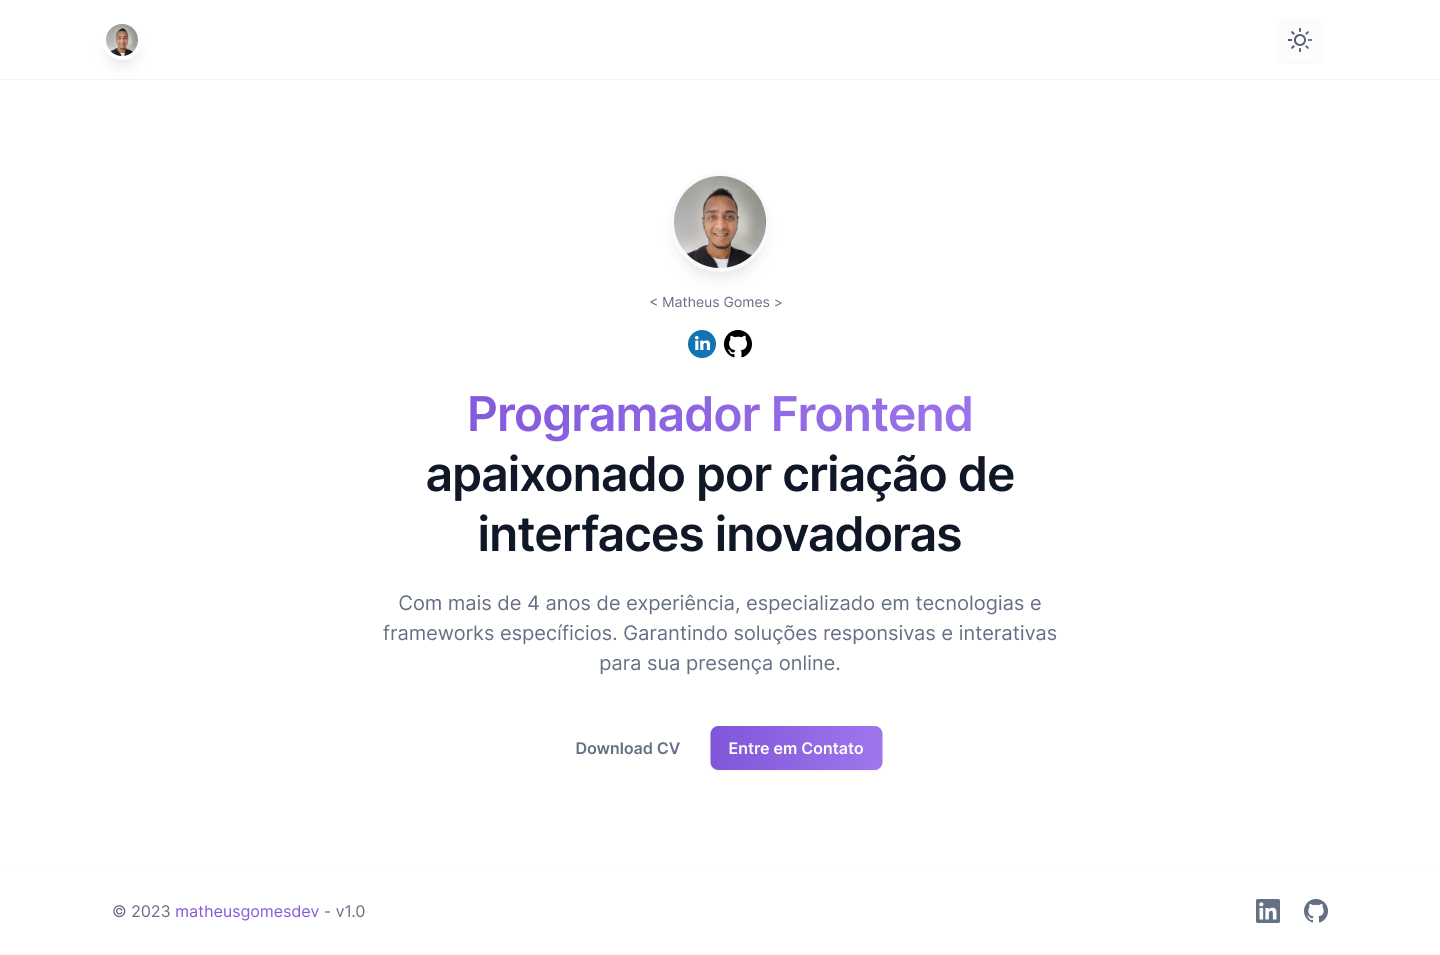
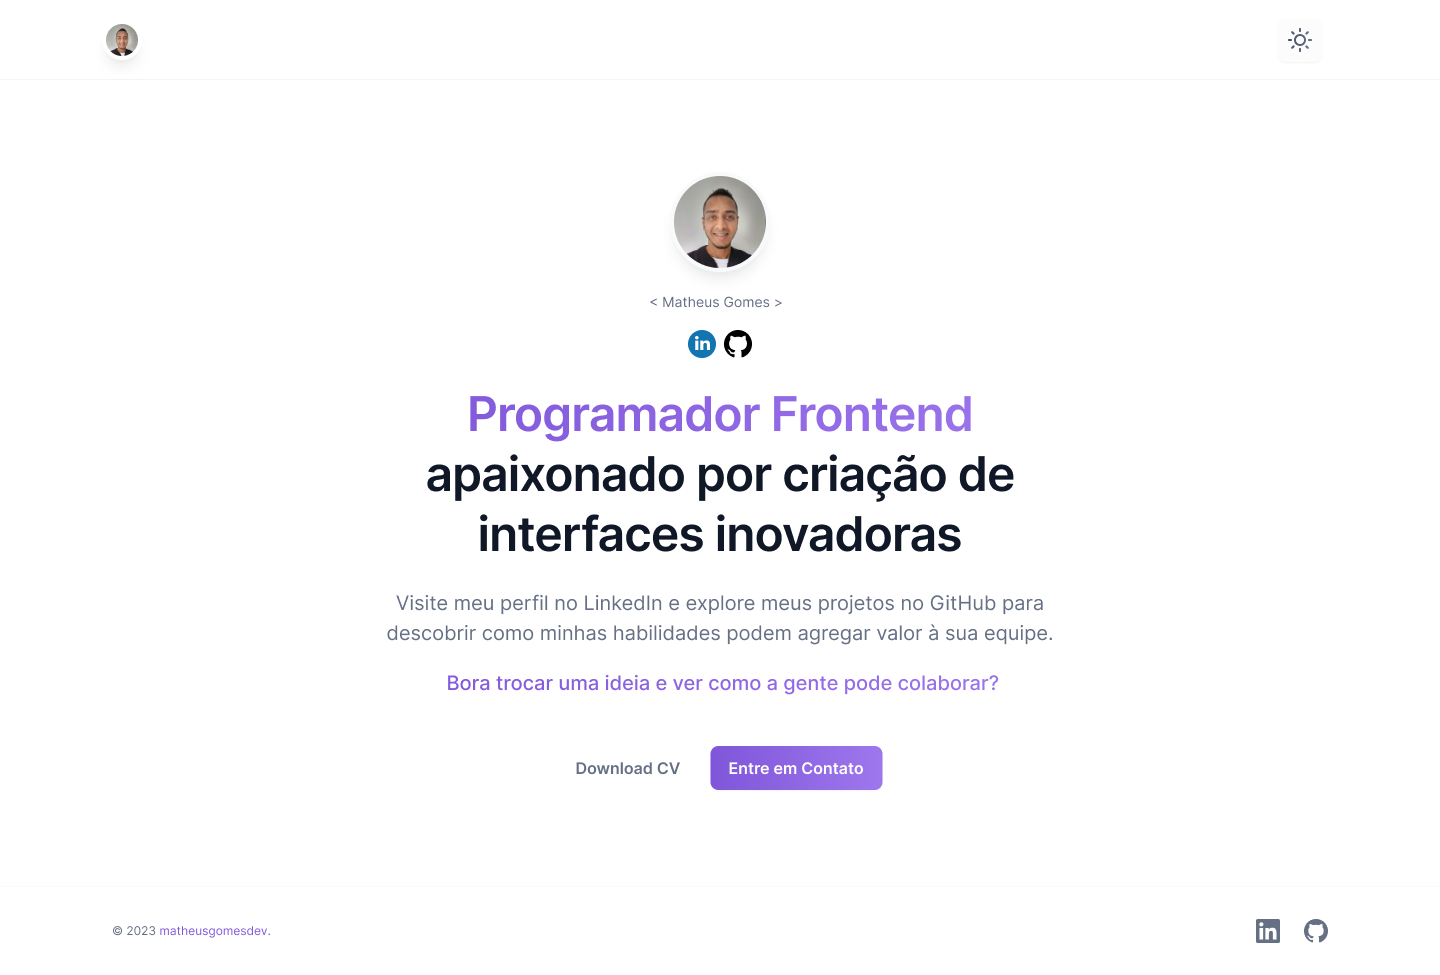
docs: :memo: Adicionando print da pagina de contato
Realizei uma organização no figma e estou atualizando as fotos do projeto

diff --git a/README.md b/README.md
@@ -1,13 +1,17 @@
 | Light                                       | Dark                                      |
 | ------------------------------------------- | ----------------------------------------- |
 | ![desktop-light](/readme/desktop-light.png) | ![desktop-dark](/readme/desktop-dark.png) |
-| [Visualize o Layout Light no Figma](https://www.figma.com/file/WZ6hE95sDBZxWX6X6S5sB7/Portfolio-Matheus?type=design&node-id=6533-2814&mode=design&t=pwW297oSrgfz4UrJ-4) | [Visualize o Layout Dark no Figma](https://www.figma.com/file/WZ6hE95sDBZxWX6X6S5sB7/Portfolio-Matheus?type=design&node-id=6533-2792&mode=design&t=pwW297oSrgfz4UrJ-4)
+| [Visualize o Layout Light no Figma](https://www.figma.com/file/WZ6hE95sDBZxWX6X6S5sB7/Portfolio-Matheus?type=design&node-id=6533-2814&mode=design&t=NdNn7XX9xlAZmckL-4) | [Visualize o Layout Dark no Figma](https://www.figma.com/file/WZ6hE95sDBZxWX6X6S5sB7/Portfolio-Matheus?type=design&node-id=6533-2792&mode=design&t=NdNn7XX9xlAZmckL-4)
 
-# Portfolio Frontend - Matheus Gomes 🚀
+| Light                                       | Dark                                      |
+| ------------------------------------------- | ----------------------------------------- |
+| ![desktop-light](/readme/desktop-contact-light.png) | ![desktop-dark](/readme/desktop-contact-dark.png) |
+| [Visualize o Layout Light no Figma](https://www.figma.com/file/WZ6hE95sDBZxWX6X6S5sB7/Portfolio-Matheus?type=design&node-id=6536-2630&mode=design&t=NdNn7XX9xlAZmckL-4) | [Visualize o Layout Dark no Figma](https://www.figma.com/file/WZ6hE95sDBZxWX6X6S5sB7/Portfolio-Matheus?type=design&node-id=6536-2652&mode=design&t=NdNn7XX9xlAZmckL-4)
+# MVP - Portfolio Frontend - Matheus Gomes 🚀
 
 > **Em andamento**
 
-Este é o meu portfólio pessoal que mostra alguns dos projetos de desenvolvimento frontend em que trabalhei ao longo dos anos. Aqui você encontrará exemplos de meu trabalho e minhas habilidades como desenvolvedor frontend.
+Este é o MVP do meu portfólio pessoal, é o ponto de partida para explorar meu perfil profissional, conectando você ao meu LinkedIn, GitHub e outras redes para conhecer melhor meu trabalho e habilidades.
 
 - [Tecnologias Utilizadas](#tecnologias-utilizadas) 
     - [Frontend](#frontend)
